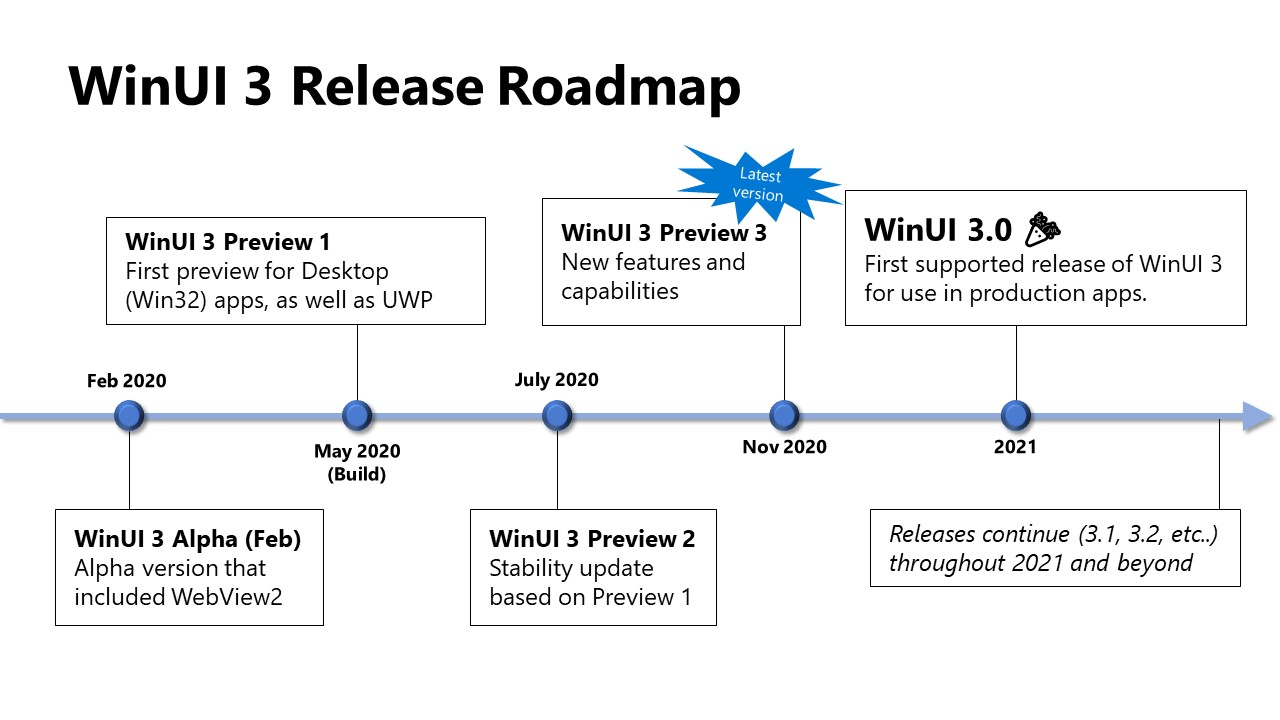
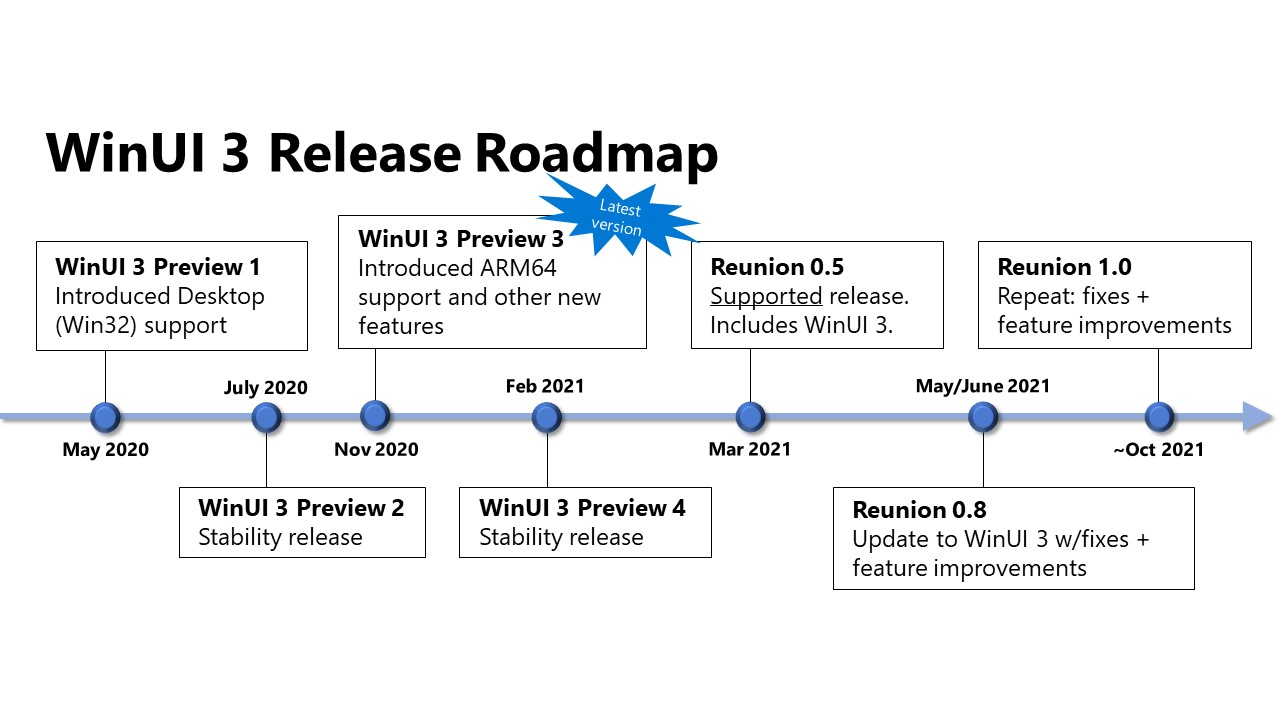
Update feature roadmap (#4084)
* Updating ordering

* updating feature roadmap

* Finalizing feature roadmap

* Update roadmap.md

diff --git a/docs/roadmap.md b/docs/roadmap.md
@@ -96,7 +96,9 @@ For existing UWP XAML apps there will be some updates required when migrating to
 
 ### WinUI 3.0 Timelines and Milestones
 
-WinUI 3 will release as a series of preview releases throughout 2020, culminating with v3.0 shipping in 2021. 
+WinUI 3 will release as a series of preview releases throughout 2020, culminating with our first supported, production-ready release shipping in March 2021. 
+
+As we move towards releasing a stable, supported version of WinUI 3, we're looking to transition into a release cadence that includes more frequent pre-releases alongside less frequent stable releases, similar to the release cadence of WinUI 2.x. 
 
 See the image below for a more detailed look at our plans for getting WinUI 3.0 to market:
 
@@ -105,49 +107,50 @@ See the image below for a more detailed look at our plans for getting WinUI 3.0 
 ## WinUI 3.0 Feature Roadmap
 We know that for many of our developers, the choice to adopt WinUI 3 is dependent on certain features and capabilities. The table below outlines the status on WinUI 3 features, and the expected date they'll be available to you. 
 
+As we begin moving towards releasing preview and stable packages in parallel, you'll see in the feature roadmap below that some features remain "preview" features during stable releases. This means that the feature is not stable/bug-free enough to be included in the stable release, but will be available in the corresponding pre-release package. 
+
 **Please note: This is a living document, and the information below can and likely will change as the project continues development. The feature availability dates listed here are the team's current goals and expectations, but are not promises or guarantees.**
 
 For questions or status updates on either features listed here, or features not on this list, you can file an issue on [our repo](https://github.com/microsoft/microsoft-ui-xaml/issues/new?assignees=&labels=question&template=question.md&title=Question%3A+%5Byour+question+here%5D) or ask during our [monthly community calls](communitycalls/WinUICommunityCall.ics). 
 
 ### Legend
-&#128994; - Included, or planned to be included
+&#128994; - Available as supported feature
 
-&#128311; - Partial capability 
+&#128311; - Available as preview feature 
 
 &#129002; - Stretch goal 
 
-Blank -  Not included, or not planned to be included
+Blank -  Not available
+
 
 **Preview 3** is our latest release. 
 
-| Customer Capability                                                         | Preview 2 (July 2020) | Preview 3 (Nov 2020) | WinUI 3.0 (2021) | Post-3.0 (3.x releases)        |
-|-----------------------------------------------------------------------------|-----------------------|----------------------|------------------|------------------|
-| WinUI in Desktop (Win32) apps                                               | &#128994;              | &#128994;             | &#128994; | &#128994; |
-| Supports MSIX Deployment                                                    | &#128994;              | &#128994;             | &#128994; | &#128994; |
-| WinUI works downlevel to Windows 10 version 1803 and above                  | &#128994;              | &#128994;             | &#128994; | &#128994; |
-| .NET 5 Support for Desktop apps                                             | &#128994;              | &#128994;             | &#128994; | &#128994; |
-| `<SwapChainPanel>`                                                              | &#128994;              | &#128994;             | &#128994; | &#128994; |
-|  Chromium-based WebView2                                                    | &#128994;              | &#128994;             | &#128994; | &#128994; |
-| Title Bar customization for Desktop apps                                    | &#128311;                  | &#128311;                 | &#128994; | &#128994; |
-| Fluent Shadows                                                              | &#128311;                  | &#128311;                 | &#128311;             | &#128994; |
-| Input validation for data fields                                            | &#128311;                  | &#128311;                 | &#129002;     | &#128994; |
-| Multi-window support for Desktop apps                                       | &#128311;                  | &#128311;              | &#128994; | &#128994; |
-| ARM64 support                                                               |            | &#128994;             | &#128994; | &#128994; |
-| Drag and drop                                                               |            | &#128994;             | &#128994; | &#128994; |
-| Off-thread input for SwapChainPanels                                        |            |      &#128994;     | &#128994;     | &#128994;|
-| RenderTargetBitmap                                                          |            |    &#128311;       | &#128311;   | &#128994; |
-| Ready for production apps                                                   |            |           | &#128994; | &#128994; |
-| Supports non-MSIX deployment                                                |            |           |       | &#128994; |
-| .NET 5 Support for UWP apps                                                 |            |           |       | &#128994; |
-| XAML Islands                                                                |            |           |       | &#128994; |
-| Works on Windows 10X                                                        |            |           |       | &#128994; |
-| Works on additional Windows form factors (Xbox, HoloLens, IoT, Surface Hub) |            |           |       | &#128994; |
-| Title Bar customization for UWP apps                                        |            |           |       | &#128994; |
-| Acrylic material                                                            |            |           |       | &#128994; |
-| Reveal Highlight                                                            |            |           |       | &#128994; |
-| Rounded corners for top level windows and popups                                                          |            |           |       | &#128994; |
-| Media Controls                                                              |            |           |       | &#128994; |
-| `<InkCanvas>`                                                                 |            |           |       | &#128994; |
-| `<Map Control>`                                                                |            |           |       | &#129002;     |
-
-
+| Customer Capability                                                         | Preview 3 (Nov 2020) | Preview 4 (Feb 2021) | Reunion 0.5 (March 2021) | Reunion 0.8 (May 2021) | Planned for a future update |
+|-----------------------------------------------------------------------------|----------------------|----------------------|--------------------------|------------------------|-----------------------------|
+| WinUI 3 in Desktop (Win32) apps                                             | &#128311;              | &#128311;              | &#128994;                      | &#128994;                    | &#128994;                         |
+| Supports MSIX Deployment                                                    | &#128311;              | &#128311;              | &#128994;                      | &#128994;                    | &#128994;                         |
+| WinUI 3 works downlevel to Windows 10 version 1809 and above                | &#128311;              | &#128311;              | &#128994;                      | &#128994;                    | &#128994;                         |
+| Supports the latest .NET                                                    | &#128311;              | &#128311;              | &#128994;                      | &#128994;                    | &#128994;                         |
+| `<SwapChainPanel>`                                                          | &#128311;              | &#128311;              | &#128994;                      | &#128994;                    | &#128994;                         |
+| Chromium-based WebView2                                                     | &#128311;              | &#128311;              | &#128994;                      | &#128994;                    | &#128994;                         |
+| Title bar customization                                                     | &#128311;              | &#128311;              | &#128994;                      | &#128994;                    | &#128994;                         |
+| Fluent Shadows                                                              | &#128311;              | &#128311;              | &#128994;                      | &#128994;                    | &#128994;                         |
+| ARM64 support                                                               | &#128311;              | &#128311;              | &#128994;                      | &#128994;                    | &#128994;                         |
+| Input validation for data fields                                            | &#128311;              | &#128311;              | &#128311;                  | &#128311;                | &#128994;                         |
+| Supports multiple top-level windows                                         | &#128311;              | &#128311;              | &#128311;                  | &#128311;                | &#128994;                         |
+| Drag and drop                                                               | &#128311;              | &#128311;              | &#128994;                      | &#128994;                    | &#128994;                         |
+| Off-thread input for SwapChainPanels                                        | &#128311;              | &#128311;              | &#128994;                      | &#128994;                    | &#128994;                         |
+| RenderTargetBitmap                                                          | &#128311;              | &#128311;              | &#128994;                      | &#128994;                    | &#128994;                         |
+| Mouse cursor customization                                                  | &#128311;              | &#128311;              | &#128994;                      | &#128994;                    | &#128994;                         |
+| Animated Gif support                                                        | &#128311;              | &#128311;              | &#128994;                      | &#128994;                    | &#128994;                         |
+| VirtualSurfaceImageSource (VSIS) support                                    |                     | &#128311;                  | &#128994;                      | &#128994;                    | &#128994;                         |
+| WinUI 3 in UWP apps                                                         |                     |                     |                         |                       | &#128994;                         |
+| Supports non-MSIX deployment                                                |                     |                     |                         |                       | &#128994;                         |
+| XAML Islands                                                                |                     |                     |                         |                       | &#128994;                         |
+| Works on Windows 10X                                                        |                     |                     |                         |                       | &#128994;                         |
+| Works on additional Windows form factors (Xbox, HoloLens, IoT, Surface Hub) |                     |                     |                         |                       | &#128994;                         |
+| Acrylic material                                                            |                     |                     |                         |                       | &#128994;                         |
+| Reveal Highlight                                                            |                     |                     |                         |                       | &#129002;                     |
+| Media Controls                                                              |                     |                     |                         |                       | &#128994;                         |
+| `<InkCanvas>`                                                               |                     |                     |                         |                       | &#128994;                         |
+| `<Map Control>`                                                             |                     |                     |                         |                       | &#129002;                     |
